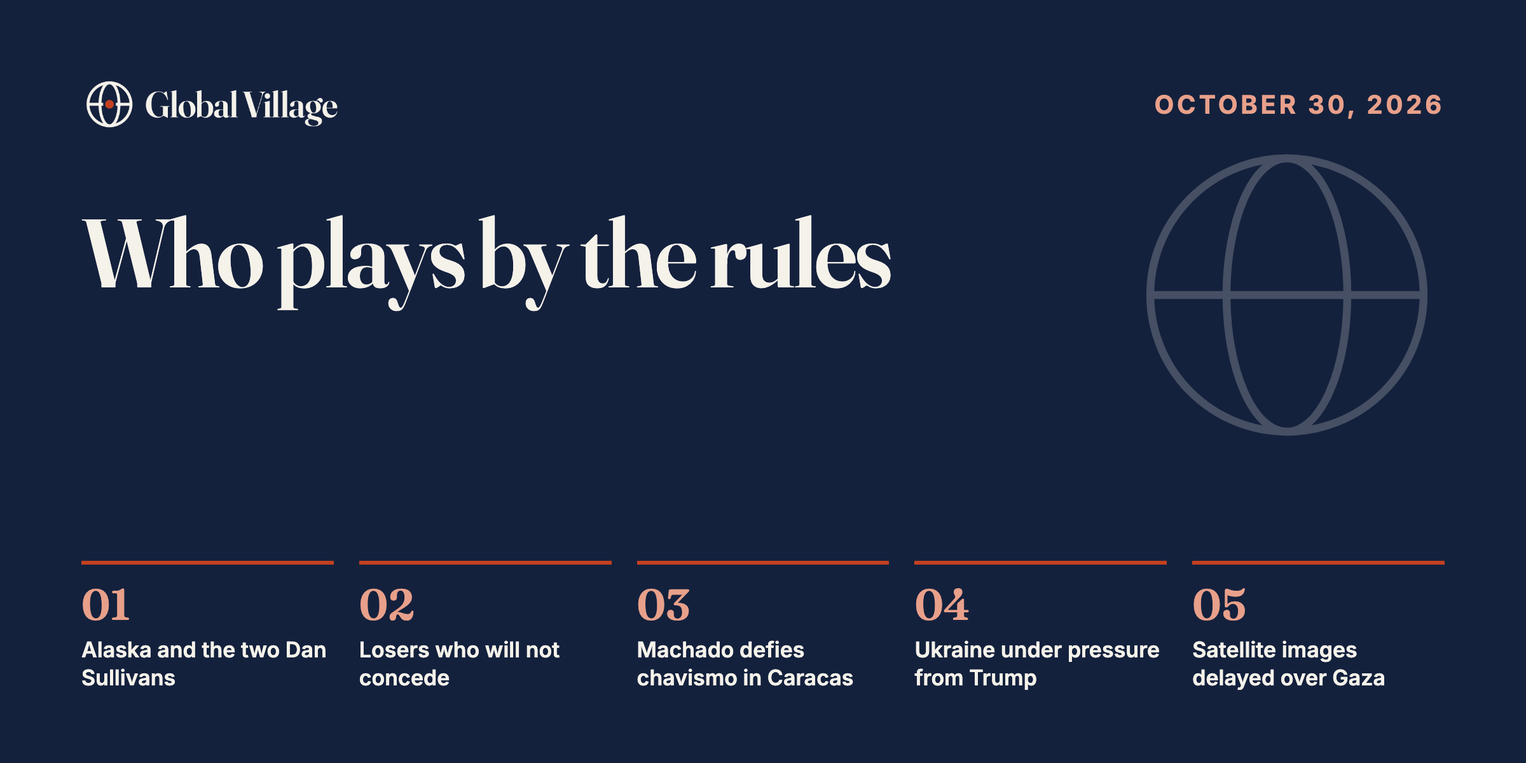
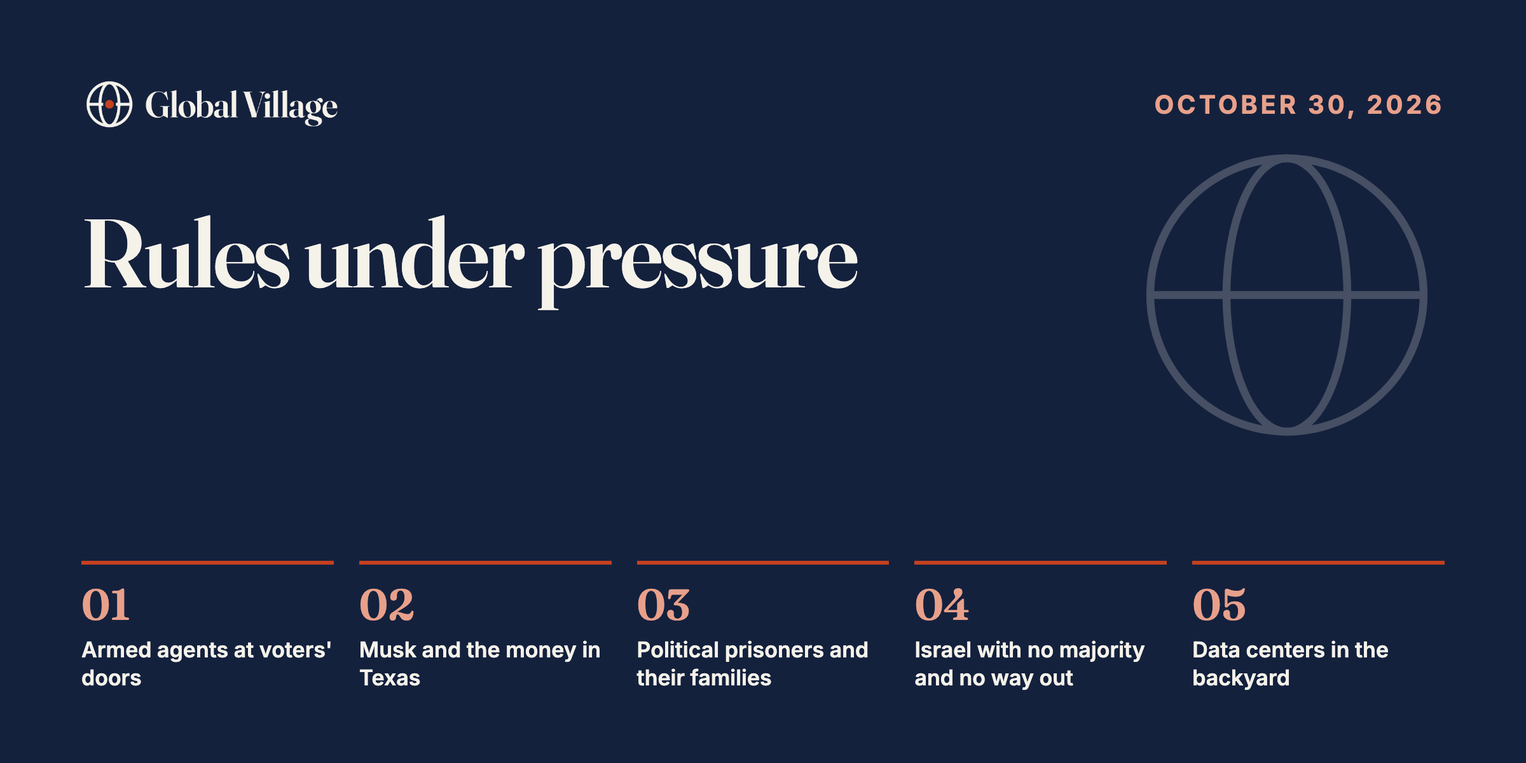
Feed 30/10: troca pelos fatos escolhidos por Thiago
A primeira versão usou os candidatos marcados na pauta, que eram os que não deviam entrar. Tira 17 itens desses fatos, acrescenta 12 dos nove fatos escolhidos e gera de novo as imagens da edição.

Changed region(s): [[0.0312, 0.2775, 0.5938, 0.4317], [0.0625, 0.8325, 0.5625, 0.925], [0.5938, 0.8325, 0.9062, 0.925]]

diff --git a/index.html b/index.html
@@ -472,24 +472,19 @@ const PEOPLE = [
 ].map(r=>({id:r[0],name:r[1],cat:r[2],area:r[3],cc:r[4],region:regOf(r[4]),org:r[5],lang:r[6],themes:r[7],ch:r[8]}));
 
 const ITEMS = [
- {id:"dispatch-williamson-alaska",who:[],by:"Kevin D. Williamson",theme:"dem",fmt:"text",src:"The Dispatch",date:"2026-10-30",lang:"EN",title:"A Wile E. Coyote Caper in Alaska",sum_en:"Kevin D. Williamson argues that the Democratic plan to put candidates with the same name as Senator Dan Sullivan on Alaska’s ballot is less a cunning conspiracy than a cartoon scheme that blew up in its authors’ faces.",sum:"Kevin D. Williamson argumenta que o plano democrata de pôr na cédula do Alasca candidatos com o mesmo nome do senador Dan Sullivan é menos uma conspiração astuta que um plano de desenho animado que explodiu na cara dos autores.",url:"https://thedispatch.com/article/alaska-caper-democrats-midterms-dan-sullivan/"},
- {id:"gzero-alasca-russia-africa",who:[],by:"Alex Kliment",theme:"dem",fmt:"text",src:"GZERO Media",date:"2026-10-29",lang:"EN",title:"Alaskan Senate race controversy shakes up midterms, Putin courts African leaders, Albania cracks down on youth protests",sum_en:"GZERO says the criminal probe into Mary Peltola’s campaign over a plan to recruit namesakes of Dan Sullivan undermines the spirit of a fair vote and will feed efforts to question the midterms, and also covers the Russia–Africa summit in Moscow.",sum:"O GZERO diz que a investigação criminal sobre a campanha de Mary Peltola, por um plano de recrutar homônimos de Dan Sullivan, fere o espírito de um voto justo e vai alimentar quem quer contestar o meio de mandato, e trata também da cúpula Rússia-África em Moscou.",url:"https://www.gzeromedia.com/news/watching/alaskan-senate-race-controversy-shakes-up-midterms-putin-courts-african-leaders-albania-cracks-down-on-youth-protests"},
+ {id:"pd-california-contagem",who:[],by:"Joe Allen",theme:"dem",fmt:"text",src:"Protect Democracy",date:"2026-10-29",lang:"EN",title:"California’s vote count, explained",sum_en:"Protect Democracy explains why California takes longer to count, with over 80% of votes by mail, a seven-day grace period and generous ballot curing, and warns that the delay is likely to become a target of the Trump administration’s interference efforts.",sum:"O Protect Democracy explica por que a Califórnia demora a apurar, com mais de 80% dos votos pelo correio, prazo de sete dias para cédulas postadas e janelas para corrigir assinaturas, e avisa que a demora deve virar alvo das tentativas de interferência do governo Trump.",url:"https://protectdemocracy.org/work/californias-vote-count-explained/"},
+ {id:"lgc-musk-texas-senado",who:[],by:"Ramona Bloj",theme:"dem",fmt:"text",src:"Le Grand Continent",date:"2026-10-30",lang:"FR",title:"Au Texas, Elon Musk a déversé presque autant d’argent dans la campagne sénatoriale que tout le camp démocrate",sum_en:"Le Grand Continent calculates that Texas’s Senate race is the most expensive in US history, at 559 million dollars, and that Elon Musk alone funded about 190 million, almost as much as the whole Democratic side.",sum:"O Le Grand Continent calcula que a disputa pelo Senado no Texas é a mais cara da história americana, com 559 milhões de dólares, e que Elon Musk sozinho bancou cerca de 190 milhões, quase tanto quanto todo o lado democrata.",url:"https://legrandcontinent.eu/fr/2026/10/30/au-texas-elon-musk-a-deverse-presque-autant-dargent-dans-la-campagne-senatoriale-que-tout-le-camp-democrate/"},
+ {id:"leonard-democratas-politica-externa",who:["mark-leonard"],theme:"geo",fmt:"podcast",src:"ECFR",date:"2026-10-30",lang:"EN",title:"After Trump: The future of Democratic foreign policy",sum_en:"Mark Leonard, Nevada Joan Lee and Stephen Wertheim discuss what the midterms mean for US foreign policy until the end of Trump’s term and what a Democratic Congress, or a Democratic president after 2028, would mean for Europe.",sum:"Mark Leonard, Nevada Joan Lee e Stephen Wertheim discutem o que o meio de mandato significa para a política externa americana até o fim do governo Trump e o que um Congresso democrata, ou um presidente democrata depois de 2028, representaria para a Europa.",url:"https://ecfr.eu/podcasts/episode/after-trump-the-future-of-democratic-foreign-policy/"},
+ {id:"unpopulist-tracinski-patronagem",who:[],by:"Robert Tracinski",theme:"eco",fmt:"text",src:"The UnPopulist",date:"2026-10-29",lang:"EN",title:"A Democratic Congress Should Make It Its Business to Expose Trump’s Patronage Machine",sum_en:"Robert Tracinski argues that corruption has become the closing theme of the midterm campaign and that a Democratic Congress should expose Trump’s patronage machine, which links authoritarian politics to an authoritarian economy and will rot American markets if left in place.",sum:"Robert Tracinski argumenta que a corrupção virou o tema final da campanha e que um Congresso democrata deveria expor a máquina de patronagem de Trump, que liga política autoritária a economia autoritária e vai apodrecer os mercados americanos se ficar de pé.",url:"https://www.theunpopulist.net/p/a-democratic-congress-should-make"},
+ {id:"confidencial-cidh-presas-nicaragua",who:[],theme:"dem",fmt:"text",src:"Confidencial",date:"2026-10-29",lang:"ES",title:"CIDH otorga medidas cautelares a favor de las presas políticas Ana Valverde y María González",sum_en:"The Inter-American Commission on Human Rights granted precautionary measures to two Nicaraguan opposition women held since July with no word on their whereabouts, while exiled groups count 72 political prisoners in the country, 33 of them forcibly disappeared.",sum:"A Comissão Interamericana de Direitos Humanos deu medidas cautelares a duas opositoras nicaraguenses presas desde julho sem que a família saiba onde estão, enquanto grupos no exílio contam 72 presos políticos no país, 33 deles em desaparecimento forçado.",url:"https://confidencial.digital/noticias/cidh-otorga-medidas-cautelares-a-favor-de-dos-presas-politicas-en-nicaragua/"},
+ {id:"bulwark-shapiro-israel-limbo",who:[],by:"Daniel B. Shapiro",theme:"geo",fmt:"text",src:"The Bulwark",date:"2026-10-30",lang:"EN",title:"Israel’s Democracy—And Its Relationship with America—Remain in Limbo",sum_en:"Daniel B. Shapiro argues that a clear majority voted for change but that Israel is stuck, and that Netanyahu’s best option is probably to block any government and drag the country to a new election.",sum:"Daniel B. Shapiro argumenta que uma clara maioria votou por mudança, mas que Israel está travado, e que a melhor saída para Netanyahu provavelmente é impedir qualquer governo e levar o país a uma nova eleição.",url:"https://www.thebulwark.com/p/israels-democracy-and-its-relationship-with-america-limbo-elections-netanyahu-eisenkot-democrats-trump-gaza-iran"},
+ {id:"dispatch-israel-quem-lidera",who:[],by:"Charlotte Lawson e Tomer Almagor",theme:"geo",fmt:"text",src:"The Dispatch",date:"2026-10-29",lang:"EN",title:"Who Will Lead Israel Now?",sum_en:"Charlotte Lawson and Tomer Almagor report from Tel Aviv on an election in which Israelis, torn between change and stability, got neither.",sum:"Charlotte Lawson e Tomer Almagor contam de Tel Aviv uma eleição em que os israelenses, divididos entre mudança e estabilidade, não tiveram nem uma nem outra.",url:"https://thedispatch.com/article/israel-election-netanyahu-eisenkot/"},
+ {id:"14ymedio-xi-quarto-mandato",who:[],theme:"geo",fmt:"text",src:"14ymedio",date:"2026-10-29",lang:"ES",title:"Xi prepara su cuarto mandato sin delfín a la vista",sum_en:"14ymedio reports that the Communist Party plenum on discipline paves the way for a fourth term for Xi Jinping, who has no successor in sight after purges that left the Central Military Commission with two members and removed at least 35 Central Committee members.",sum:"O 14ymedio relata que o pleno do Partido Comunista sobre disciplina abre caminho para um quarto mandato de Xi Jinping, sem sucessor à vista depois de expurgos que deixaram a Comissão Militar Central com dois membros e afastaram pelo menos 35 membros do Comitê Central.",url:"https://www.14ymedio.com/internacional/xi-prepara-cuarto-mandato-delfin_1_1132568.html"},
+ {id:"lgc-china-fortunas-tech",who:[],by:"Marin Saillofest",theme:"eco",fmt:"text",src:"Le Grand Continent",date:"2026-10-29",lang:"FR",title:"En Chine, 55 % des plus grandes fortunes viennent de la tech",sum_en:"Using Hurun data, Le Grand Continent shows that 55% of China’s largest fortunes come from tech, cars or electronics, double the share of ten years ago and more than twice the US figure.",sum:"Com dados do Hurun, o Le Grand Continent mostra que 55% das maiores fortunas da China vêm da tecnologia, dos carros ou da eletrônica, o dobro de dez anos atrás e mais que o dobro da fatia nos Estados Unidos.",url:"https://legrandcontinent.eu/fr/2026/10/29/en-chine-55-des-plus-grandes-fortunes-viennent-de-la-tech/"},
+ {id:"dispatch-kentucky-data-center",who:[],by:"Amelia Christmas Gramling",theme:"tec",fmt:"text",src:"The Dispatch",date:"2026-10-30",lang:"EN",title:"‘This Data Center Crap’: Land and Technology Clash in Kentucky",sum_en:"Amelia Christmas Gramling goes back to southern Kentucky, where residents of Franklin are fighting a developer’s plan to build a data center in cave country.",sum:"Amelia Christmas Gramling volta ao sul do Kentucky, onde moradores de Franklin enfrentam o plano de uma empresa de construir um data center numa região de cavernas.",url:"https://thedispatch.com/article/data-center-kentucky-land-environment/"},
+ {id:"dm-cecil-desinformacao-ia",who:[],by:"Jessica Cecil",theme:"tec",fmt:"text",src:"Daily Maverick",date:"2026-10-29",lang:"EN",title:"What it takes to fight increasingly sophisticated, AI-powered disinformation campaigns",sum_en:"Jessica Cecil, founder of the BBC’s Trusted News Initiative, reflects on the first month of Athena, her new publication on disinformation, and argues that AI has turned the fight against false content into full-blown information warfare.",sum:"Jessica Cecil, fundadora da Trusted News Initiative da BBC, reflete sobre o primeiro mês da Athena, sua nova publicação sobre desinformação, e argumenta que a IA transformou a luta contra o conteúdo falso numa guerra de informação aberta.",url:"https://www.dailymaverick.co.za/opinionista/2026-10-29-what-it-takes-to-fight-increasingly-sophisticated-ai-powered-disinformation-campaigns/"},
+ {id:"ari-ia-setor-seguranca",who:[],by:"Yehia Gamal",theme:"tec",fmt:"text",src:"Arab Reform Initiative",date:"2026-10-29",lang:"EN",title:"Artificial Intelligence and the Security Sector: Governance Risk or Reform Opportunity?",sum_en:"Yehia Gamal asks whether bringing AI into police, justice and surveillance systems in the Arab world will entrench unaccountable security forces or open a chance for reform.",sum:"Yehia Gamal pergunta se levar a IA às polícias, à Justiça e aos sistemas de vigilância do mundo árabe vai consolidar forças de segurança sem controle ou abrir uma chance de reforma.",url:"https://www.arab-reform.net/publication/artificial-intelligence-and-the-security-sector-governance-risk-or-reform-opportunity/"},
  {id:"kristol-modelo-trump-fraude",who:["bill-kristol"],theme:"dem",fmt:"text",src:"The Bulwark",date:"2026-10-29",lang:"EN",title:"Is This Heaven? No, It’s the Midterms.",sum_en:"Bill Kristol describes the Trump model, in which any lost election is fraud, and shows it spreading among his allies abroad, from Netanyahu’s claim that Arab parties stole Israel’s election to Flávio Bolsonaro’s letter from the United States.",sum:"Bill Kristol descreve o modelo Trump, em que toda eleição perdida é fraude, e mostra que ele se espalha entre aliados de fora, da acusação de Netanyahu de que partidos árabes roubaram a eleição em Israel à carta de Flávio Bolsonaro enviada dos Estados Unidos.",url:"https://www.thebulwark.com/p/is-this-heaven-no-its-the-midterms-trump-democrats-midterms-brewers-hegseth-general-fired-pentagon-poll"},
- {id:"dagobah-carta-flavio",who:["augusto-de-franco"],pub:"dagobah",theme:"dem",fmt:"text",src:"Dagobah",date:"2026-10-29",lang:"PT",title:"Análise da carta antidemocrática de Flávio Bolsonaro",sum_en:"Augusto de Franco reads Flávio Bolsonaro’s letter as consistent with right-wing populism, which does not recognise elections it loses, and argues that many of his 60 million votes came from opponents of the PT who are now freer to leave Bolsonarism.",sum:"Augusto de Franco lê a carta de Flávio Bolsonaro como coerente com o populismo de direita, que não reconhece eleições que perde, e argumenta que muitos dos 60 milhões de votos dele vieram de opositores do PT, que agora ficam mais livres para deixar o bolsonarismo.",url:"https://dagobah.com.br/analise-da-carta-antidemocratica-de-flavio-bolsonaro/"},
- {id:"jod-perdedores-america-latina",who:[],by:"Alejandro González Ruiz",theme:"dem",fmt:"text",src:"Journal of Democracy",date:"2026-10-29",lang:"EN",title:"Why Latin America’s Losers Won’t Concede",sum_en:"Alejandro González Ruiz links Flávio Bolsonaro’s refusal to concede to recent cases in Peru, Colombia, Ecuador and Honduras and attributes the pattern to close results, social media and movements built around a single leader, for whom conceding can mean losing everything.",sum:"Alejandro González Ruiz liga a recusa de Flávio Bolsonaro a reconhecer a derrota a casos recentes no Peru, na Colômbia, no Equador e em Honduras e atribui o padrão a resultados apertados, às redes sociais e a movimentos construídos em torno de um líder, para quem reconhecer a derrota pode significar perder tudo.",url:"https://www.journalofdemocracy.org/online-exclusive/why-latin-americas-losers-wont-concede/"},
- {id:"dm-ipsos-municipais",who:[],theme:"dem",fmt:"text",src:"Daily Maverick",date:"2026-10-30",lang:"EN",title:"LOCAL ELECTIONS 2026: MK support down as Zuma disappears from stump",sum_en:"A new Ipsos poll puts the ANC at 30% nationally, its lowest yet, shows the DA ahead in Cape Town, Johannesburg and Tshwane and finds Jacob Zuma’s MK party losing ground in eThekwini while its leader is out of sight.",sum:"Uma nova pesquisa Ipsos põe o CNA em 30% no país, o menor nível já medido, mostra a Aliança Democrática à frente na Cidade do Cabo, em Joanesburgo e em Tshwane e aponta queda do MK, partido de Jacob Zuma, em eThekwini enquanto o líder some da campanha.",url:"https://www.dailymaverick.co.za/article/2026-10-30-mk-support-down-as-zuma-disappears-from-stump-new-big-poll/"},
- {id:"dm-desinformacao-iec",who:[],theme:"dem",fmt:"text",src:"Daily Maverick",date:"2026-10-29",lang:"EN",title:"Misinformation, disinformation and the threat to electoral integrity",sum_en:"This op-ed argues that harmful online content around South Africa’s elections has shifted from false polling details to campaigns that attack the credibility of the Electoral Commission itself.",sum:"O artigo argumenta que o conteúdo nocivo sobre as eleições sul-africanas deixou de ser só informação falsa sobre datas e locais de votação e passou a atacar a credibilidade da própria Comissão Eleitoral.",url:"https://www.dailymaverick.co.za/article/2026-10-29-misinformation-disinformation-and-the-threat-to-electoral-integrity/"},
- {id:"dm-tshwane-coalizao",who:[],theme:"dem",fmt:"text",src:"Daily Maverick",date:"2026-10-29",lang:"EN",title:"LOCAL ELECTIONS 2026: Five Tshwane polls give DA an edge in coalition negotiations",sum_en:"Five polls put the DA first in Tshwane, South Africa’s administrative capital, but show that ActionSA remains the kingmaker between a DA-led and an ANC-led coalition.",sum:"Cinco pesquisas põem a Aliança Democrática em primeiro em Tshwane, a capital administrativa da África do Sul, mas mostram que a ActionSA segue decidindo entre uma coalizão liderada pela AD e outra liderada pelo CNA.",url:"https://www.dailymaverick.co.za/article/2026-10-29-five-tshwane-polls-give-da-an-edge-in-coalition-negotiations/"},
- {id:"14ymedio-machado-desafia",who:[],theme:"geo",fmt:"text",src:"14ymedio",date:"2026-10-29",lang:"ES",title:"María Corina Machado desafía al régimen en su primera conferencia de prensa en Caracas",sum_en:"14ymedio contrasts acting president Delcy Rodríguez’s promise of elections with no date with María Corina Machado’s first press conference since her return, in which she said the system of repression is still in power and called for justice, not impunity.",sum:"O 14ymedio contrapõe a promessa de eleições sem data da presidente interina Delcy Rodríguez à primeira entrevista de María Corina Machado desde a volta, em que ela disse que o sistema de repressão segue no poder e pediu justiça, não impunidade.",url:"https://www.14ymedio.com/internacional/maria-corina-machado-desafia-regimen_1_1132587.html"},
- {id:"dispatch-guerra-america-latina",who:[],by:"Gil Guerra",theme:"geo",fmt:"text",src:"The Dispatch",date:"2026-10-30",lang:"EN",title:"Latin America Policy Is About to Get More Complicated",sum_en:"Gil Guerra argues that events in the region, from Venezuela to Brazil, have stymied Trump’s “Donroe Doctrine” and that Washington’s Latin America policy is about to get harder.",sum:"Gil Guerra argumenta que os fatos na região, da Venezuela ao Brasil, travaram a “Doutrina Donroe” de Trump e que a política de Washington para a América Latina vai ficar mais difícil.",url:"https://thedispatch.com/article/latin-america-trump-donroe-doctrine-venezuela-brazil/"},
- {id:"kyiv-refinaria-retomada",who:[],by:"Tamara Nowakowsky",theme:"geo",fmt:"text",src:"The Kyiv Independent",date:"2026-10-30",lang:"EN",title:"Russian oil refinery reportedly attacked amid renewed Ukrainian strikes on energy infrastructure",sum_en:"The Kyiv Independent reports a drone attack on the Novokuybyshevsk refinery, seen as the end of an informal pause in Ukraine’s campaign against Russian refineries that, according to the Wall Street Journal, followed pressure from Trump.",sum:"O Kyiv Independent relata um ataque com drones à refinaria de Novokuybyshevsk, visto como o fim de uma pausa informal na campanha ucraniana contra refinarias russas que, segundo o Wall Street Journal, veio depois de pressão de Trump.",url:"https://kyivindependent.com/russian-oil-refinery-reportedly-attacked-amid-renewed-ukrainian-strikes-on-energy-infrastructure/"},
- {id:"kyiv-economia-queda",who:[],by:"Dominic Culverwell",theme:"eco",fmt:"text",src:"The Kyiv Independent",date:"2026-10-29",lang:"EN",title:"Ukraine heads for first economic decline since 2022 as Russian strikes take their toll",sum_en:"Ukraine’s National Bank now expects the economy to shrink by 0.4% this year, instead of growing 1.8%, as Russia’s port blockade and strikes on industry shut down steel production and push inflation to a three-year high.",sum:"O Banco Nacional da Ucrânia agora prevê queda de 0,4% da economia neste ano, em vez de alta de 1,8%, porque o bloqueio russo dos portos e os ataques à indústria pararam a produção de aço e levaram a inflação ao maior nível em três anos.",url:"https://kyivindependent.com/ukraine-heads-for-first-economic-decline-since-2022-as-russian-strikes-take-their-toll/"},
- {id:"kyiv-onu-diplomata-russo",who:[],by:"Tania Myronyshena",theme:"geo",fmt:"text",src:"The Kyiv Independent",date:"2026-10-29",lang:"EN",title:"UN appoints Russian diplomat to oversee mine action, as Ukraine clears over 300,000 explosives in Kherson Oblast",sum_en:"The UN named Russian diplomat Gleb Desyatnikov to lead its mine action work while Ukraine clears hundreds of thousands of explosives left by Russia’s war, and Kyiv said Moscow had “mined the United Nations”.",sum:"A ONU nomeou o diplomata russo Gleb Desyatnikov para comandar sua área de ação contra minas enquanto a Ucrânia retira centenas de milhares de explosivos deixados pela guerra russa, e Kiev disse que Moscou “minou as Nações Unidas”.",url:"https://kyivindependent.com/as-ukraine-clears-over-300-000-explosives-in-kherson-oblast-un-appoints-russian-diplomat-to-oversee-mine-action/"},
- {id:"occrp-baobas-georgia",who:[],theme:"eco",fmt:"text",src:"OCCRP",date:"2026-10-29",lang:"EN",title:"Criminal Probe Launched in South Africa Over Contraband Baobabs Bound for Georgia",sum_en:"South African authorities opened a criminal investigation after five protected baobabs, 200 to 300 years old, were uprooted in Limpopo and stopped at the port of Durban on their way to Georgia without permits.",sum:"A África do Sul abriu investigação criminal depois que cinco baobás protegidos, de 200 a 300 anos, foram arrancados em Limpopo e retidos no porto de Durban a caminho da Geórgia sem licença.",url:"https://www.occrp.org/en/news/criminal-probe-launched-in-south-africa-over-contraband-baobabs-bound-for-georgia"},
- {id:"dm-baobas-ivanishvili",who:[],theme:"eco",fmt:"text",src:"Daily Maverick",date:"2026-10-29",lang:"EN",title:"UPROOTED: The tree-loving Georgian billionaire, the Pretoria landscaper and the SA baobab export row",sum_en:"Daily Maverick traces the baobabs held in Durban to a Pretoria landscaper now facing charges and points to the tree park of Bidzina Ivanishvili, billionaire and former prime minister of Georgia, whose baobabs taken from Kenya died after arriving.",sum:"O Daily Maverick liga os baobás retidos em Durban a um paisagista de Pretória que responde a processo e aponta para o parque de árvores de Bidzina Ivanishvili, bilionário e ex-primeiro-ministro da Geórgia, cujos baobás levados do Quênia morreram depois de chegar.",url:"https://www.dailymaverick.co.za/article/2026-10-29-the-tree-loving-georgian-billionaire-the-pretoria-landscaper-and-the-sa-baobab-export-row/"},
- {id:"bellingcat-sentinel-gaza",who:[],by:"Logan Williams",theme:"tec",fmt:"text",src:"Bellingcat",date:"2026-10-29",lang:"EN",title:"EU Satellite Imagery Delayed Over Gaza and Parts of West Bank by 24-hours",sum_en:"Bellingcat found that free imagery from the EU’s Sentinel satellites has been delayed by 24 hours over Gaza and parts of the West Bank since March, without any announcement, slowing open-source verification of events such as the demolitions in Hebron.",sum:"A Bellingcat descobriu que as imagens gratuitas dos satélites Sentinel, da União Europeia, chegam com 24 horas de atraso sobre Gaza e partes da Cisjordânia desde março, sem anúncio, o que atrasa a verificação aberta de fatos como as demolições em Hebron.",url:"https://www.bellingcat.com/news/2026/10/29/eu-satellite-imagery-delayed-over-gaza-and-parts-of-west-bank-by-24-hours/"},
- {id:"cpj-cisjordania-jornalistas",who:[],theme:"dem",fmt:"text",src:"Committee to Protect Journalists",date:"2026-10-29",lang:"EN",title:"Journalists attacked by settlers, detained by police after incident",sum_en:"CPJ condemns the detention by Israeli forces of journalists Andrey Khrzhanovskiy and Jasper Nathaniel near Umm al-Khair, in the occupied West Bank, after settlers assaulted them and a third reporter.",sum:"O CPJ condena a detenção, por forças israelenses, dos jornalistas Andrey Khrzhanovskiy e Jasper Nathaniel perto de Umm al-Khair, na Cisjordânia ocupada, depois que colonos agrediram os dois e uma terceira repórter.",url:"https://cpj.org/2026/10/journalists-attacked-by-settlers-detained-by-police-after-incident/"},
- {id:"techdirt-characterai-pensamento",who:[],by:"Caroline De Cock",theme:"tec",fmt:"text",src:"Techdirt",date:"2026-10-29",lang:"EN",title:"Your Diary Has A Creditor: What Character.ai’s Bankruptcy Does To Freedom Of Thought",sum_en:"Caroline De Cock argues that Character.ai’s bankruptcy shows how the record of what millions of users confided to a chatbot can be treated as an asset to be sold, and that freedom of thought in the AI age is being decided by courts hearing other cases.",sum:"Caroline De Cock argumenta que a falência da Character.ai mostra como o registro do que milhões de usuários confiaram a um chatbot pode ser tratado como ativo à venda e que a liberdade de pensamento na era da IA está sendo decidida por tribunais que julgam outras causas.",url:"https://www.techdirt.com/2026/10/29/your-diary-has-a-creditor-what-character-ais-bankruptcy-does-to-freedom-of-thought/"},
  {id:"persuasion-magen-eisenkot",who:[],by:"Amichai Magen",theme:"geo",fmt:"text",src:"Persuasion",date:"2026-10-29",lang:"EN",title:"Eizenkot’s Choice",sum_en:"Amichai Magen reads Israel’s result as a stalemate with a new Arab bloc of 19 seats and argues that Netanyahu will try to prolong the deadlock, while the country’s path depends on what Gadi Eisenkot does next.",sum:"Amichai Magen lê o resultado em Israel como um impasse com um novo bloco árabe de 19 cadeiras e argumenta que Netanyahu vai tentar prolongar a paralisia, enquanto o rumo do país depende do que Gadi Eisenkot fizer.",url:"https://www.persuasion.community/p/eizenkots-choice"},
  {id:"pd-dhs-agentes-eleitores",who:[],by:"Joe Allen",theme:"dem",fmt:"text",src:"Protect Democracy",date:"2026-10-29",lang:"EN",title:"Challenging DHS’s field investigations into voter eligibility",sum_en:"Protect Democracy explains the lawsuit it co-counsels against the Department of Homeland Security for sending armed federal agents to voters’ homes to question their eligibility, which the plaintiffs say violates the Voting Rights Act.",sum:"O Protect Democracy explica a ação em que atua contra o Departamento de Segurança Interna por mandar agentes federais armados à casa de eleitores para questionar se podem votar, o que os autores dizem violar a Lei do Direito ao Voto.",url:"https://protectdemocracy.org/work/challenging-dhss-field-investigations-into-voter-eligibility/"},
  {id:"freedomhouse-presos-familias",who:[],theme:"dem",fmt:"text",src:"Freedom House",date:"2026-10-29",lang:"EN",title:"Family Members Speak: The Toll of Political Imprisonment",sum_en:"For the International Day of Political Prisoners, Freedom House gives voice to relatives of people jailed for exercising their rights, who face legal costs, fear for their loved ones and become advocates overnight.",sum:"No Dia Internacional dos Presos Políticos, a Freedom House dá voz a parentes de pessoas presas por exercer seus direitos, que enfrentam custos com advogados, medo pela vida dos seus e viram ativistas da noite para o dia.",url:"https://freedomhouse.org/article/family-members-speak-toll-political-imprisonment"},
